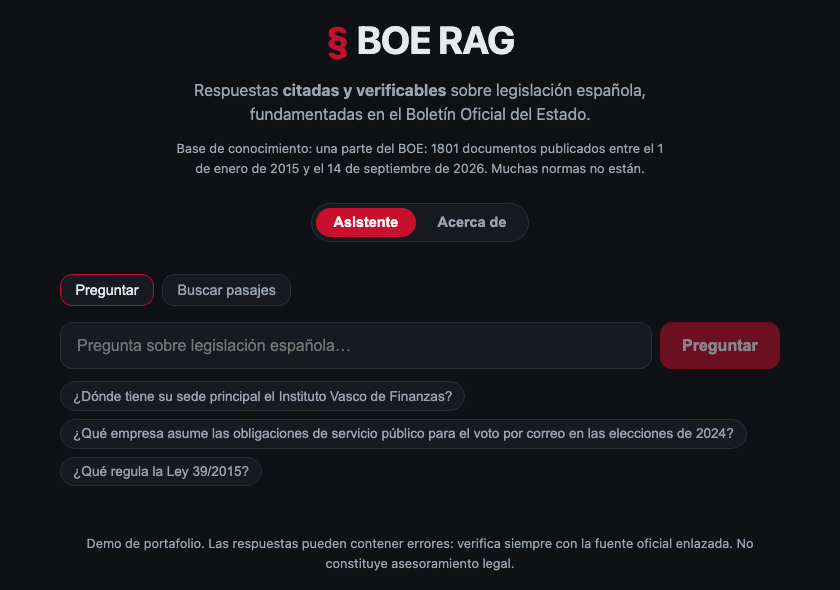
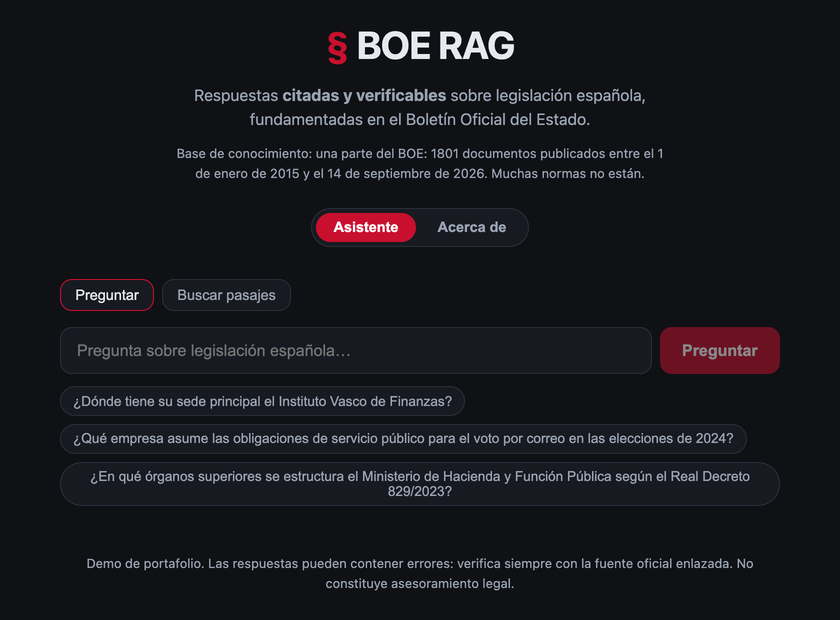
Post: introduce retrieval methods, correct the token count and the MCP claim
Introduce BM25, embeddings, vector databases and hybrids before comparing them.
Count the blog's tokens with a tokenizer instead of assuming 4 characters per
token. Separate when retrieval is needed from when MCP is, link the model pages
for the context window, and show the app's current examples. Remove the code
link from the timeline entry.

diff --git a/rag-against-the-machine.html b/rag-against-the-machine.html
@@ -21,17 +21,17 @@
 <h2>1. Wake Up</h2>
 <p>During the hype around Retrieval-Augmented Generation (RAG), I was a Machine Learning Engineer working on more classical problems: supervised learning on tabular data, pipelines, A/B testing. Then 2026 arrived, and RAG expertise seemed to have become part of the job description. My side projects had mostly explored music, so I had some catching up to do.</p>
 <p>I’m still learning. What I can share is a three-day side project answering questions about documents from the Boletín Oficial del Estado, Spain’s official state gazette. The app runs on Azure. You can <a class="inline-link" href="https://muoten.github.io/boe-rag-assistant/">try it here</a>.</p>
-<figure class="post-figure post-shot"><a href="https://muoten.github.io/boe-rag-assistant/"><img src="assets/boe-rag-app.png" alt="The BOE RAG app, with a question box and example questions in Spanish" width="840" height="590" loading="lazy"></a><figcaption>BOE RAG, in Spanish, over a sample of the BOE. After idle time, the first answer can take over a minute.</figcaption><a class="button" href="https://muoten.github.io/boe-rag-assistant/">Try the app <span>↗</span></a></figure>
+<figure class="post-figure post-shot"><a href="https://muoten.github.io/boe-rag-assistant/"><img src="assets/boe-rag-app.png?v=20261105b" alt="The BOE RAG app, with a question box and example questions in Spanish" width="840" height="620" loading="lazy"></a><figcaption>BOE RAG, in Spanish, over a sample of the BOE. The examples answer at once. After idle time, a new question can take over a minute.</figcaption><a class="button" href="https://muoten.github.io/boe-rag-assistant/">Try the app <span>↗</span></a></figure>
 <p>Building from scratch can be a good way to learn and an inefficient way to deliver. This time, I started from <a class="inline-link" href="https://github.com/gonzalonao/boe-rag-assistant">boe-rag-assistant</a>, an open-source project by Gonzalo López Crespo, then used Claude Code to help me investigate, deploy and iterate on it.</p>
 
 <h2>2. Sleep Now in the Fire</h2>
 <p>As a rule of thumb, I expect more computation and better frontier models to solve many of today’s technical puzzles (Sutton’s <a class="inline-link" href="http://www.incompleteideas.net/IncIdeas/BitterLesson.html">Bitter Lesson</a>), whether in six months, two years or longer. So part of engineering is knowing where craft beats force (<span lang="es">más vale maña que fuerza</span>) and where the latest established model or solution is the no-brainer.</p>
 <p>My hypothesis is that parts of today’s RAG stack (chunking recipes, embeddings, vector databases) may have a shorter shelf life than we assume.</p>
-<p>The test I now try to apply: what would have to change before I stopped building this component? Context must be large enough, and reading all of it on every question must be cheap enough. My blog passes both today: about 18,000 tokens, or about $0.002 per question with GPT-6 Luna and $0.04 with GPT-6 Sol at <a class="inline-link" href="https://developers.openai.com/api/docs/pricing">list prices</a>. My BOE sample fails both: it would need a context window about 15 times larger, and at long-context rates each question would cost about $3 with Luna and $63 with Sol.</p>
-<figure class="post-figure"><svg viewBox="0 0 600 262" role="img" aria-label="On a log scale, my blog fits well inside the roughly 1 million token context window, my BOE sample is about 15 times larger, and the full BOE about 150 times larger."><line class="fig-grid" x1="16.0" y1="42" x2="16.0" y2="226"/><text class="fig-tick" x="16.0" y="246" text-anchor="start">10k</text><line class="fig-grid" x1="129.6" y1="42" x2="129.6" y2="226"/><text class="fig-tick" x="129.6" y="246" text-anchor="middle">100k</text><line class="fig-grid" x1="243.2" y1="42" x2="243.2" y2="226"/><text class="fig-tick" x="243.2" y="246" text-anchor="middle">1M</text><line class="fig-grid" x1="356.8" y1="42" x2="356.8" y2="226"/><text class="fig-tick" x="356.8" y="246" text-anchor="middle">10M</text><line class="fig-grid" x1="470.4" y1="42" x2="470.4" y2="226"/><text class="fig-tick" x="470.4" y="246" text-anchor="middle">100M</text><line class="fig-grid" x1="584.0" y1="42" x2="584.0" y2="226"/><text class="fig-tick" x="584.0" y="246" text-anchor="end">1B</text><line class="fig-limit" x1="245.6" y1="30" x2="245.6" y2="226"/><text class="fig-label" x="245.6" y="20" text-anchor="middle">Context window, about 1M tokens</text><text class="fig-label" x="16" y="58">My blog</text><text class="fig-tick" x="16" y="75">18,000 tokens, $0.002 to $0.04</text><circle class="fig-dot" cx="45.0" cy="89" r="6"><title>My blog: 18,000 tokens, $0.002 to $0.04</title></circle><text class="fig-label" x="262" y="118">My BOE sample</text><text class="fig-tick" x="262" y="135">about 16M tokens, about $3 to $63 if it fit</text><circle class="fig-dot" cx="379.1" cy="149" r="6"><title>My BOE sample: about 16M tokens, about $3 to $63 if it fit</title></circle><text class="fig-label" x="262" y="178">Full BOE (my estimate)</text><text class="fig-tick" x="262" y="195">about 160M tokens, about $31 to $628 if it fit</text><circle class="fig-dot" cx="492.7" cy="209" r="6"><title>Full BOE (my estimate): about 160M tokens, about $31 to $628 if it fit</title></circle></svg><figcaption>Whether retrieval is needed depends on size: the BOE sample is about 15 times the context window. Log scale. Costs per question, from gpt-6-luna to gpt-6-sol, at OpenAI list prices checked on 5 November 2026: $0.10 and $2 per million input tokens, $0.50 and $10 per million output tokens, with higher long-context rates above 272,000 input tokens ($0.20 and $4, $0.75 and $15). Assumes 4 characters per token, 300 output tokens and no caching. The BOE costs are hypothetical, since neither collection fits.</figcaption></figure>
-<p>Even so, in an earlier local experiment I built retrieval and an MCP server for that same blog, probably without needing either. A prompt with the whole blog could ask for cited answers. MCP earns its place when the data doesn’t fit in the prompt or several clients share the same tools.</p>
+<p>The test I now try to apply: what would have to change before I stopped building this component? Context must be large enough, and reading all of it on every question must be cheap enough. My blog passes both today: about 12,000 words, around 17,000 tokens, or about $0.002 per question with GPT-6 Luna and $0.04 with GPT-6 Sol at <a class="inline-link" href="https://developers.openai.com/api/docs/pricing">list prices</a>. My BOE sample fails both: it would need a context window about 15 times larger, and at long-context rates each question would cost about $3 with Luna and $63 with Sol.</p>
+<figure class="post-figure"><svg viewBox="0 0 600 262" role="img" aria-label="On a log scale, my blog fits well inside the roughly 1 million token context window, my BOE sample is about 15 times larger, and the full BOE about 150 times larger."><line class="fig-grid" x1="16.0" y1="42" x2="16.0" y2="226"/><text class="fig-tick" x="16.0" y="246" text-anchor="start">10k</text><line class="fig-grid" x1="129.6" y1="42" x2="129.6" y2="226"/><text class="fig-tick" x="129.6" y="246" text-anchor="middle">100k</text><line class="fig-grid" x1="243.2" y1="42" x2="243.2" y2="226"/><text class="fig-tick" x="243.2" y="246" text-anchor="middle">1M</text><line class="fig-grid" x1="356.8" y1="42" x2="356.8" y2="226"/><text class="fig-tick" x="356.8" y="246" text-anchor="middle">10M</text><line class="fig-grid" x1="470.4" y1="42" x2="470.4" y2="226"/><text class="fig-tick" x="470.4" y="246" text-anchor="middle">100M</text><line class="fig-grid" x1="584.0" y1="42" x2="584.0" y2="226"/><text class="fig-tick" x="584.0" y="246" text-anchor="end">1B</text><line class="fig-limit" x1="245.6" y1="30" x2="245.6" y2="226"/><text class="fig-label" x="245.6" y="20" text-anchor="middle">Context window, about 1M tokens</text><text class="fig-label" x="16" y="58">My blog</text><text class="fig-tick" x="16" y="75">17,000 tokens, $0.002 to $0.04</text><circle class="fig-dot" cx="42.2" cy="89" r="6"><title>My blog: 17,000 tokens, $0.002 to $0.04</title></circle><text class="fig-label" x="262" y="118">My BOE sample</text><text class="fig-tick" x="262" y="135">about 16M tokens, about $3 to $63 if it fit</text><circle class="fig-dot" cx="379.1" cy="149" r="6"><title>My BOE sample: about 16M tokens, about $3 to $63 if it fit</title></circle><text class="fig-label" x="262" y="178">Full BOE (my estimate)</text><text class="fig-tick" x="262" y="195">about 160M tokens, about $31 to $628 if it fit</text><circle class="fig-dot" cx="492.7" cy="209" r="6"><title>Full BOE (my estimate): about 160M tokens, about $31 to $628 if it fit</title></circle></svg><figcaption>Whether retrieval is needed depends on size: the BOE sample is about 15 times the context window (1,050,000 tokens for <a class="inline-link" href="https://developers.openai.com/api/docs/models/gpt-6-luna">gpt-6-luna</a> and <a class="inline-link" href="https://developers.openai.com/api/docs/models/gpt-6-sol">gpt-6-sol</a>). Log scale. Costs per question, from gpt-6-luna to gpt-6-sol, at OpenAI list prices checked on 5 November 2026: $0.10 and $2 per million input tokens, $0.50 and $10 per million output tokens, with higher long-context rates above 272,000 input tokens ($0.20 and $4, $0.75 and $15). Blog tokens counted with OpenAI’s o200k_base tokenizer, BOE tokens estimated at 4 characters per token. Assumes 300 output tokens and no caching. The BOE costs are hypothetical, since neither collection fits.</figcaption></figure>
+<p>Even so, in an earlier local experiment I built retrieval and an MCP server for that same blog, probably without needing either. A prompt with the whole blog could ask for cited answers. Retrieval earns its place when the data doesn’t fit in the prompt. MCP earns its place when your tools serve different AI applications outside your control.</p>
 <h2>3. Bulls on Parade</h2>
-<p>Retrieval ranks chunks against the query, and both common families represent text as vectors. Embeddings use dense vectors from a learned latent space. BM25 is a classic, time-tested technique derived from Term Frequency-Inverse Document Frequency (TF-IDF): its vectors are sparse, with one coordinate per vocabulary word, weighted by how often the word appears and how rare it is.</p>
+<p>RAG can’t send the whole BOE to the LLM, so it splits documents into chunks and retrieves the few most relevant to the question. There are two main ways to rank them. BM25, the classical one, derives from Term Frequency-Inverse Document Frequency (TF-IDF) and matches words. It represents each text as a sparse vector, with one coordinate per vocabulary word, weighted by how often the word appears and how rare it is. Embeddings, the modern one, come from a neural model that represents each text as a dense vector, placing similar meanings close together even when they share no words. Vector databases exist mainly to search these dense vectors quickly. A hybrid combines both rankings, so you might expect it, or embeddings alone, to beat a technique from the 1990s.</p>
 <p>When I compared retrieval approaches, adding components did not automatically help. On 20 manually curated questions (the gold set), a hybrid of BM25 and embeddings reached 95% Recall@5 against 85% for either alone, though that gap is just 2 questions. On 14 questions asking what a given law covers, BM25 alone found the labeled passage every time, while the hybrid found it for 9. On an earlier corpus, a cross-encoder improved ranking on the gold set but worsened it on those 14 questions and on a larger set generated by an LLM (the silver set), while adding latency. Here, BM25 matched or beat embeddings on Recall@5. Another corpus or other questions could reverse that.</p>
 <figure class="post-figure"><svg viewBox="0 0 600 262" role="img" aria-label="Recall at 5 by question set. Gold: BM25 85, embeddings 85, hybrid 95 percent. Norm-reference: BM25 100, embeddings 36, hybrid 64 percent. Silver-test: BM25 94, embeddings 90, hybrid 95 percent."><rect class="s1" x="132" y="8" width="11" height="11" rx="2"/><text class="fig-tick" x="148" y="18">BM25</text><rect class="s2" x="220" y="8" width="11" height="11" rx="2"/><text class="fig-tick" x="236" y="18">Embeddings</text><rect class="s3" x="344" y="8" width="11" height="11" rx="2"/><text class="fig-tick" x="360" y="18">Hybrid</text><text class="fig-label" x="0" y="56">20 gold</text><text class="fig-tick" x="0" y="73">questions</text><rect class="s1" x="132" y="38" width="314.5" height="16" rx="3"><title>20 gold questions, BM25: 85%</title></rect><text class="fig-tick" x="453.5" y="50.5">85%</text><rect class="s2" x="132" y="58" width="314.5" height="16" rx="3"><title>20 gold questions, Embeddings: 85%</title></rect><text class="fig-tick" x="453.5" y="70.5">85%</text><rect class="s3" x="132" y="78" width="351.5" height="16" rx="3"><title>20 gold questions, Hybrid: 95%</title></rect><text class="fig-tick" x="490.5" y="90.5">95%</text><text class="fig-label" x="0" y="130">14 norm-reference</text><text class="fig-tick" x="0" y="147">questions</text><rect class="s1" x="132" y="112" width="370.0" height="16" rx="3"><title>14 norm-reference questions, BM25: 100%</title></rect><text class="fig-tick" x="509.0" y="124.5">100%</text><rect class="s2" x="132" y="132" width="132.1" height="16" rx="3"><title>14 norm-reference questions, Embeddings: 35.7%</title></rect><text class="fig-tick" x="271.1" y="144.5">36%</text><rect class="s3" x="132" y="152" width="237.9" height="16" rx="3"><title>14 norm-reference questions, Hybrid: 64.3%</title></rect><text class="fig-tick" x="376.9" y="164.5">64%</text><text class="fig-label" x="0" y="204">883 silver-test</text><text class="fig-tick" x="0" y="221">questions</text><rect class="s1" x="132" y="186" width="347.1" height="16" rx="3"><title>883 silver-test questions, BM25: 93.8%</title></rect><text class="fig-tick" x="486.1" y="198.5">94%</text><rect class="s2" x="132" y="206" width="331.2" height="16" rx="3"><title>883 silver-test questions, Embeddings: 89.5%</title></rect><text class="fig-tick" x="470.2" y="218.5">90%</text><rect class="s3" x="132" y="226" width="350.0" height="16" rx="3"><title>883 silver-test questions, Hybrid: 94.6%</title></rect><text class="fig-tick" x="489.0" y="238.5">95%</text></svg><figcaption>Recall@5 by question set: the winner changes with the questions. Gold is manually curated, norm-reference asks what a given law covers, and silver-test is LLM-generated. The first two are small, so their gaps are uncertain.</figcaption></figure>
 <p>So the useful work was simplification: finding which components the system could do without. There is always value in distilling and simplifying, though the effort of doing it is not always worth it (when the more complex alternative already meets the requirements). Removing the cross-encoder left a simpler, faster system. The experiments behind that decision may stop being worth running once sending many more passages is cheap and doesn’t hurt the answers.</p>

diff --git a/index.html b/index.html
@@ -22,7 +22,7 @@ openLegacySection();window.addEventListener("hashchange",openLegacySection);
 <div class="hero-art" role="img" aria-label="Abstract flowing lines inspired by audio waves and model representations"><svg viewBox="0 0 500 480" aria-hidden="true"><defs><linearGradient id="ink" x1="0" y1="0" x2="1" y2="1"><stop stop-color="#c65336"/><stop offset="1" stop-color="#784b39"/></linearGradient></defs><g id="waves" fill="none" stroke="url(#ink)" stroke-width="1.15"></g><circle cx="250" cy="239" r="4" fill="#c65336"/></svg></div>
 </section>
 <nav class="time-nav" id="timeline" aria-label="Timeline years"><div class="shell"><span class="time-label">TIME MACHINE</span><a href="#year-2026">2026 <span>Now</span></a><a href="#year-2024">2024</a><a href="#year-2021">2021</a><a href="#year-2020">2020</a><a href="#year-2019">2019</a><a href="#year-2018">2018</a><a href="#year-2017">2017 <span>Then</span></a></div></nav><section class="shell work section-space" id="year-2026" aria-labelledby="projects-title"><div class="section-head"><div><p class="eyebrow">2026 / NOW</p><h2 id="projects-title">New adventures in machine learning and music (Op. 55)</h2></div></div><p class="year-intro">AI assistants have changed how quickly we can turn an idea into a working experiment. Some questions remain difficult. Exploring them has become much easier.</p>
-<article class="archive-entry"><div class="archive-date">Nov 2026</div><div><p class="eyebrow">RAG / Prototype</p><h3><a href="rag-against-the-machine.html">RAG Against the Machine</a></h3><p>Building a RAG got cheaper. Evaluating its accuracy and efficiency remains challenging. Notes from a three-day side project answering questions about Spain’s BOE (official state gazette).</p><div class="era-links"><a href="rag-against-the-machine.html">Read the article →</a><a href="https://muoten.github.io/boe-rag-assistant/">Try the app ↗</a><a href="https://github.com/muoten/boe-rag-assistant">View code ↗</a></div></div></article>
+<article class="archive-entry"><div class="archive-date">Nov 2026</div><div><p class="eyebrow">RAG / Prototype</p><h3><a href="rag-against-the-machine.html">RAG Against the Machine</a></h3><p>Building a RAG got cheaper. Evaluating its accuracy and efficiency remains challenging. Notes from a three-day side project answering questions about Spain’s BOE (official state gazette).</p><div class="era-links"><a href="rag-against-the-machine.html">Read the article →</a><a href="https://muoten.github.io/boe-rag-assistant/">Try the app ↗</a></div></div></article>
 <article class="archive-entry"><div class="archive-date">Feb 2026</div><div><p class="eyebrow">Music / Live application</p><h3><a href="https://coverdetector.com">CoverDetector</a></h3><p>Different recording. Same song?</p><p>Recognizing a particular recording is one thing. Recognizing the same composition through a different singer, tempo, key, or arrangement is another. Cover-song identification has made substantial progress, but radically different interpretations and real-world recordings still challenge current systems.</p><p>CoverDetector explores that problem using audio embeddings from CoverHunter and LIVI to search for related recordings. Building the application is only part of the experiment: evaluating its matches, understanding its mistakes, and separating musical identity from superficial similarity are where the harder questions begin.</p><p>Try it, listen to the results, and see where it falls short.</p><figure class="archive-visual"><a href="https://coverdetector.com"><img src="assets/coverdetector-jericho.png" alt="CoverDetector finding possible covers of Pete Seeger’s Joshua Fought the Battle of Jericho" width="1280" height="720" loading="lazy"></a><figcaption>CoverDetector · possible covers of Pete Seeger’s Joshua Fought the Battle of Jericho.</figcaption></figure><div class="era-links"><a href="https://coverdetector.com">Try CoverDetector ↗</a><a href="https://github.com/muoten/music-cover-detector">View code ↗</a></div></div></article>
 </section><section class="shell history-chapters"><article class="era" id="year-2024"><div class="era-date"><span>2024 / MUSIC2VEC</span><strong>2024</strong></div><div class="era-copy"><h3>What does a song look like<br>to a model?</h3><p>Can we find relationships between songs by representing them as vectors?</p><p>I started with Chromaprint2Vec, using <a class="inline-link" href="https://acoustid.org/chromaprint">Chromaprint</a>—an audio fingerprinting tool designed to identify recordings—and <a class="inline-link" href="https://musicbrainz.org/">MusicBrainz</a>, an open music metadata database.</p><p>Harmony2Vec explored learned audio embeddings with <a class="inline-link" href="https://github.com/alanngnet/CoverHunterMPS">CoverHunterMPS</a>, an adaptation of the CoverHunter cover-song identification model that runs on a single computer, alongside chord progression tools.</p><p>Mapping these representations lets us inspect which recordings end up close together. Some relationships make musical sense to us. Others are harder to interpret. What has the model learned to consider similar?</p><figure class="archive-visual"><a href="https://muoten.github.io/archive/#audio2vec"><img src="assets/projector_example.png" alt="Songs represented in the embedding projector" loading="lazy"></a><figcaption>Music2vec · exploring the relationships between recordings.</figcaption></figure><div class="era-links"><a href="https://muoten.github.io/archive/#audio2vec">Open the music experiments ↗</a><a href="https://github.com/muoten/chromaprint2vec">Explore Chromaprint2Vec ↗</a><a href="https://github.com/muoten/harmony2vec">Explore Harmony2Vec ↗</a></div></div></article></section><section class="shell historical-list"><div id="year-2021" class="year-marker"><p class="eyebrow">2021 / UNCOOL DATA SCIENCE</p><h2>Assumptions strike back.</h2></div><article class="archive-entry"><div class="archive-date">Jun 2021</div><div><p class="eyebrow">Causal inference · Updated 17 June 2021</p><h3>Causal wars: assumptions strike back</h3><p>What can algorithms tell us about cause and effect? Experiments with automatic causal discovery, and the assumptions behind the answers.</p><div class="era-links"><a href="https://muoten.github.io/archive/#uncool">Read the original article ↗</a><a href="https://github.com/muoten/causal-discovery-playground">Explore the notebooks ↗</a></div></div></article>
 <div id="year-2020" class="year-marker"><p class="eyebrow">2020 / THE SITE BEGINS</p><h2>Look past the hype.</h2></div><p class="year-intro">I started this site to question the promises, work through the methods, and make the assumptions explicit. These articles remain in the context in which I wrote them.</p>
